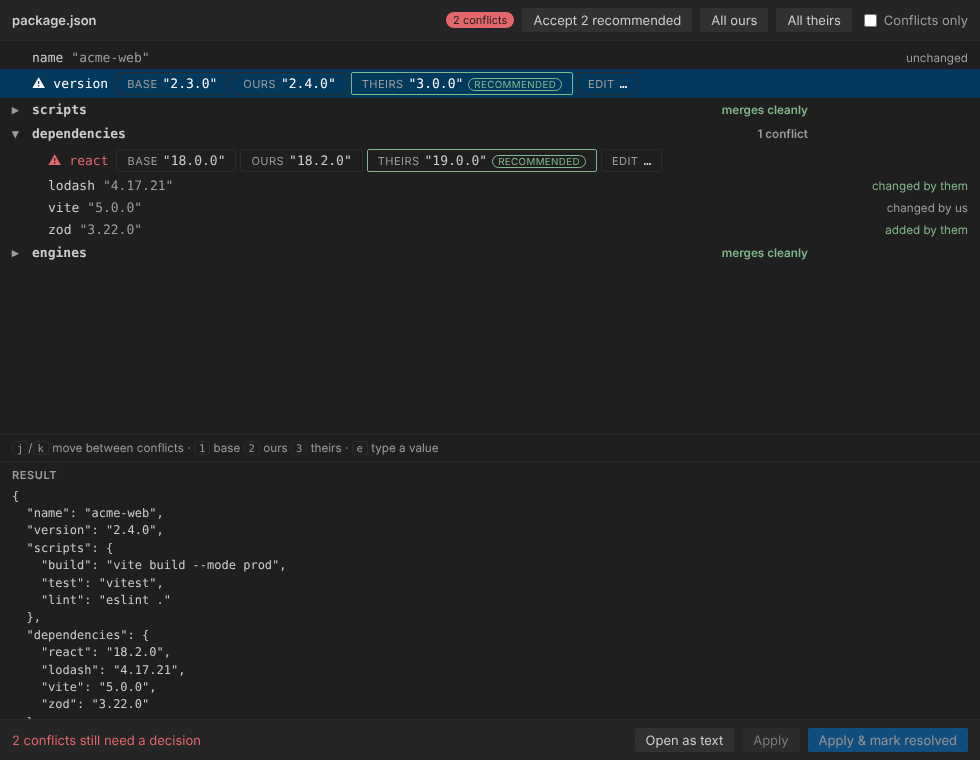
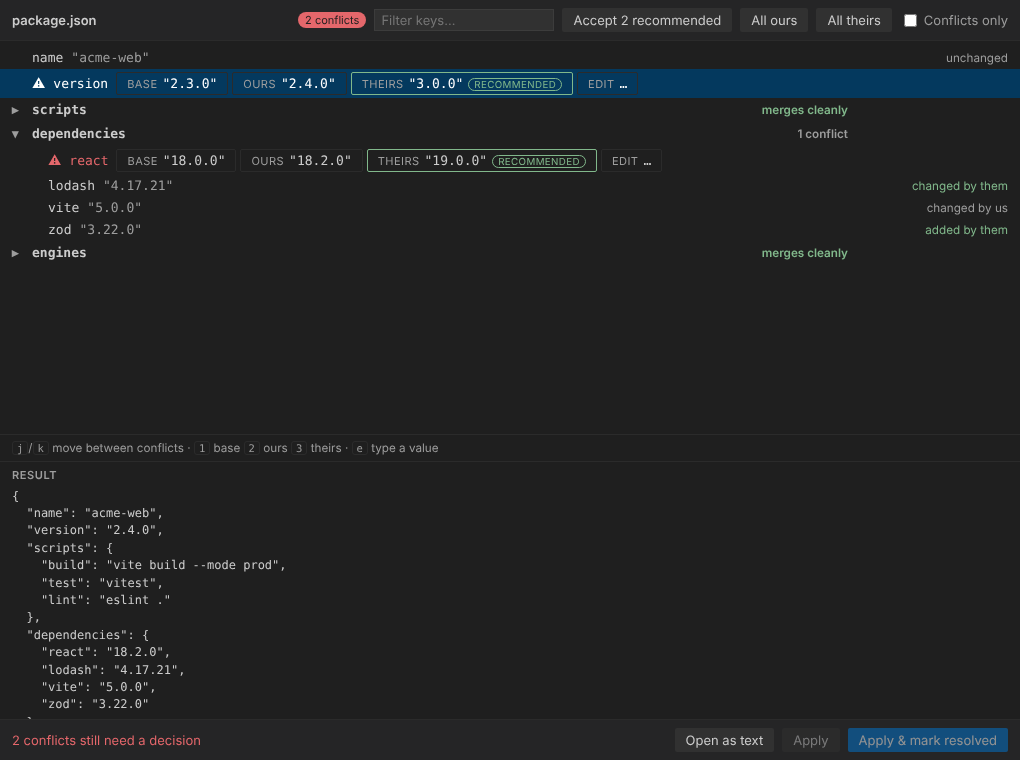
Deepen the resolver: key filter, subtree actions, structured diffs
A filter box narrows the tree by key or value, and says so when nothing
matches rather than showing an empty pane.

A container holding several conflicts offers to resolve just those,
leaving everything that merged cleanly alone — distinct from the
existing whole-subtree override, which ignores the merge entirely.

A conflict whose value is an object or array now shows both sides side
by side with the lines unique to each marked, instead of a summary like
'{3 items}' that says nothing about what differs. The diff is bounded
and scrolls rather than being clipped by the tree pane.

diff --git a/extension/webview/main.ts b/extension/webview/main.ts
@@ -25,6 +25,8 @@ interface State {
   path: string;
   doc: MergeDocument;
   conflictsOnly: boolean;
+  /** Lower-cased key filter typed in the toolbar. */
+  search: string;
   collapsed: Set<string>;
   /** Node whose inline value editor is open. */
   editing?: string;
@@ -76,6 +78,23 @@ function* allNodes(nodes: MergeNode[]): Generator<MergeNode> {
       yield* allNodes(node.children);
     }
   }
+}
+
+/** True when this node or anything under it matches the typed filter. */
+function matchesSearch(node: MergeNode, search: string): boolean {
+  if (search === "") {
+    return true;
+  }
+  if (node.label.toLowerCase().includes(search)) {
+    return true;
+  }
+  const values = [node.sides.ours, node.sides.theirs]
+    .filter((side) => side.present)
+    .map((side) => side.display.toLowerCase());
+  if (values.some((value) => value.includes(search))) {
+    return true;
+  }
+  return (node.children ?? []).some((child) => matchesSearch(child, search));
 }
 
 function hasConflictBelow(node: MergeNode): boolean {
@@ -173,6 +192,29 @@ function renderChoices(node: MergeNode): HTMLElement {
  */
 function renderWholeChoice(node: MergeNode): HTMLElement {
   const wrap = element("span", "whole");
+
+  // Resolve just the conflicts under here, leaving clean merges alone — the
+  // common case when one subtree is contentious and the rest is fine.
+  const below = [...allNodes(node.children ?? [])].filter(
+    (n) => !n.children && n.status === "conflict",
+  );
+  if (below.length > 1) {
+    for (const side of ["ours", "theirs"] as const) {
+      const button = element("button", "choice tiny");
+      button.textContent = `${below.length} below: ${side}`;
+      button.title = `Resolve the ${below.length} conflicts under ${node.label} as ${side}, leaving everything that merged cleanly alone`;
+      button.addEventListener("click", (event) => {
+        event.stopPropagation();
+        for (const child of below) {
+          child.resolution = { kind: "side", side };
+          post({ type: "setResolution", nodeId: child.id, resolution: child.resolution });
+        }
+        render();
+      });
+      wrap.append(button);
+    }
+  }
+
   for (const side of ["ours", "theirs"] as const) {
     const selected = node.resolution.kind === "side" && node.resolution.side === side;
     const button = element("button", "choice tiny");
@@ -188,6 +230,55 @@ function renderWholeChoice(node: MergeNode): HTMLElement {
       render();
     });
     wrap.append(button);
+  }
+  return wrap;
+}
+
+/** True when a one-line summary like "{3 keys}" hides what actually differs. */
+function isStructured(node: MergeNode): boolean {
+  return [node.sides.ours, node.sides.theirs].some(
+    (side) => side.present && typeof side.value === "object" && side.value !== null,
+  );
+}
+
+function pretty(side: MergeNode["sides"]["ours"]): string[] {
+  if (!side.present) {
+    return ["(removed)"];
+  }
+  return JSON.stringify(side.value, null, 2).split("\n");
+}
+
+/**
+ * A side-by-side view for a conflict whose values are objects or arrays,
+ * where the collapsed summary says nothing useful. Lines present on only one
+ * side are marked, so what actually differs is visible.
+ */
+function renderDiff(node: MergeNode, depth: number): HTMLElement {
+  const wrap = element("div", "diff");
+  wrap.style.marginLeft = `${12 + depth * 16}px`;
+
+  const ourLines = pretty(node.sides.ours);
+  const theirLines = pretty(node.sides.theirs);
+  const ourSet = new Set(ourLines.map((l) => l.trim()));
+  const theirSet = new Set(theirLines.map((l) => l.trim()));
+
+  for (const [side, lines, otherSet] of [
+    ["Ours", ourLines, theirSet],
+    ["Theirs", theirLines, ourSet],
+  ] as const) {
+    const column = element("div", "diff-col");
+    column.append(element("h4", undefined, side));
+    const pre = element("pre");
+    for (const line of lines) {
+      const span = element("span", "diff-line");
+      if (line.trim() !== "" && !otherSet.has(line.trim())) {
+        span.classList.add(side === "Ours" ? "only-ours" : "only-theirs");
+      }
+      span.textContent = line;
+      pre.append(span, document.createTextNode("\n"));
+    }
+    column.append(pre);
+    wrap.append(column);
   }
   return wrap;
 }
@@ -255,6 +346,9 @@ function renderNode(node: MergeNode, depth: number, into: HTMLElement): void {
   const isConflict = !node.children && node.status === "conflict";
 
   if (state.conflictsOnly && !hasConflictBelow(node)) {
+    return;
+  }
+  if (!matchesSearch(node, state.search)) {
     return;
   }
 
@@ -330,6 +424,14 @@ function renderNode(node: MergeNode, depth: number, into: HTMLElement): void {
 
   if (isConflict) {
     row.append(renderChoices(node));
+    if (state.current === node.id && isStructured(node)) {
+      into.append(row);
+      into.append(renderDiff(node, depth));
+      if (state.editing === node.id) {
+        into.append(renderCustomEditor(node));
+      }
+      return;
+    }
   } else {
     const resolved =
       node.status === "theirs-only" ? node.sides.theirs : node.sides.ours;
@@ -396,6 +498,25 @@ function renderToolbar(): HTMLElement {
     );
   } else {
     bar.append(element("span", "badge", "merges cleanly"));
+  }
+
+  if (doc.format !== "lockfile") {
+    const search = element("input", "search");
+    search.type = "search";
+    search.placeholder = "Filter keys…";
+    search.value = state!.search;
+    search.setAttribute("aria-label", "Filter the tree by key or value");
+    search.addEventListener("input", () => {
+      if (state) {
+        state.search = search.value.trim().toLowerCase();
+        render();
+        // Re-focus, since rendering replaces the element.
+        const next = document.querySelector<HTMLInputElement>(".toolbar .search");
+        next?.focus();
+        next?.setSelectionRange(next.value.length, next.value.length);
+      }
+    });
+    bar.append(search);
   }
 
   // Bulk actions and the filter only make sense over a tree of decisions; a
@@ -673,6 +794,7 @@ window.addEventListener("message", (event: MessageEvent<HostMessage>) => {
         path: message.path,
         doc: message.doc,
         conflictsOnly: state?.conflictsOnly ?? false,
+        search: state?.search ?? "",
         collapsed,
         current: conflictLeaves(message.doc.root)[0]?.id,
         preview: state?.preview ?? "",

diff --git a/extension/webview/styles.css b/extension/webview/styles.css
@@ -422,3 +422,69 @@ kbd {
   margin-left: auto;
   flex: none;
 }
+
+/* ---------- filter box ---------- */
+
+.toolbar .search {
+  flex: 0 1 180px;
+  min-width: 120px;
+  font-family: inherit;
+  font-size: inherit;
+  color: var(--vscode-input-foreground);
+  background: var(--vscode-input-background);
+  border: 1px solid var(--vscode-input-border, var(--border));
+  padding: 2px 6px;
+}
+
+/* ---------- side-by-side diff ---------- */
+
+.diff {
+  display: flex;
+  gap: 12px;
+  margin: 2px 12px 8px;
+  border: 1px solid var(--border);
+  border-radius: 3px;
+  overflow: hidden;
+}
+
+.diff-col {
+  flex: 1 1 0;
+  min-width: 0;
+}
+
+.diff-col h4 {
+  margin: 0;
+  padding: 4px 8px;
+  font-size: 0.8em;
+  text-transform: uppercase;
+  letter-spacing: 0.05em;
+  color: var(--muted);
+  background: var(--vscode-editorWidget-background, transparent);
+  border-bottom: 1px solid var(--border);
+}
+
+.diff-col pre {
+  margin: 0;
+  padding: 6px 0;
+  /* Self-contained: a long value scrolls here rather than being clipped by
+     the tree pane. */
+  max-height: 180px;
+  overflow: auto;
+  font-family: var(--vscode-editor-font-family);
+  font-size: 0.95em;
+  line-height: 1.4;
+}
+
+.diff-line {
+  display: inline-block;
+  width: 100%;
+  padding: 0 8px;
+}
+
+.diff-line.only-ours {
+  background: var(--vscode-diffEditor-removedTextBackground, rgba(255, 100, 100, 0.2));
+}
+
+.diff-line.only-theirs {
+  background: var(--vscode-diffEditor-insertedTextBackground, rgba(100, 255, 100, 0.2));
+}

diff --git a/extension/dev/preview-host.ts b/extension/dev/preview-host.ts
@@ -103,6 +103,28 @@ const FIXTURES = {
       steps: [{ uses: "checkout", ref: "release" }, { uses: "cache" }],
     }),
   },
+  diff: {
+    path: "tsconfig.json",
+    base: JSON.stringify({
+      compilerOptions: { target: "ES2020", strict: true, lib: ["dom"] },
+      settings: { retries: 1, timeout: 30 },
+      keywords: ["cli", "cli", "merge"],
+    }),
+    ours: JSON.stringify(
+      {
+        compilerOptions: { target: "ES2022", strict: true, lib: ["dom", "es2022"] },
+        settings: { retries: 2, timeout: 60, parallel: true },
+        keywords: ["cli", "cli", "merge", "git", "json"],
+      },
+      null,
+      2,
+    ),
+    theirs: JSON.stringify({
+      compilerOptions: { target: "ESNext", strict: false, lib: ["dom", "esnext"] },
+      settings: { retries: 5, timeout: 90 },
+      keywords: ["cli", "cli", "merge", "yaml"],
+    }),
+  },
 } as const;
 
 type FixtureName = keyof typeof FIXTURES;
@@ -117,6 +139,7 @@ const FORMATS: Record<FixtureName, MergeFormat> = {
   yaml: "yaml",
   lockfile: "lockfile",
   arrays: "json",
+  diff: "json",
 };
 const engine = createEngine(FORMATS[which] ?? "json");
 
